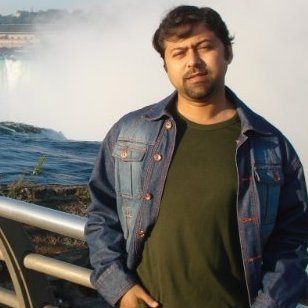
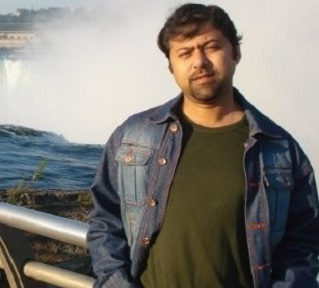
Resizing Images

diff --git a/index.html b/index.html
@@ -464,7 +464,7 @@
 					<div class="col-sm-4">
 							<div class="team">
 								<div class="team-img">
-									<img class="img-responsive" src="./img/team3.jpg" alt="">
+									<img class="img-responsive" src="./img/mallika.jpg" alt="">
 									<div class="overlay" style="color:white">
 										TEXT TO BE ADDED
 									</div>
